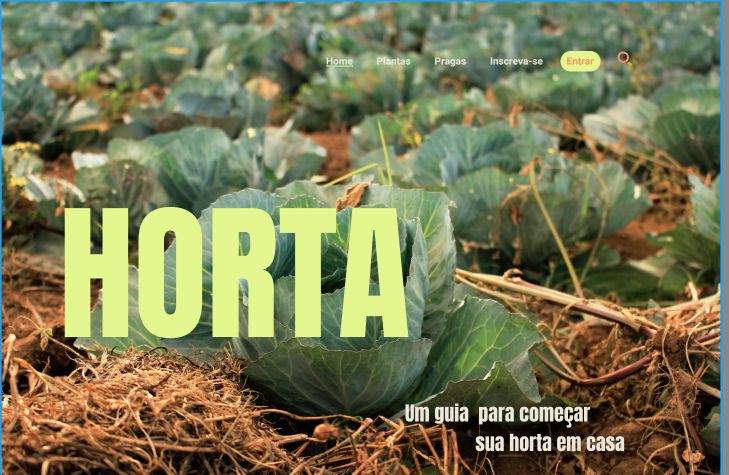
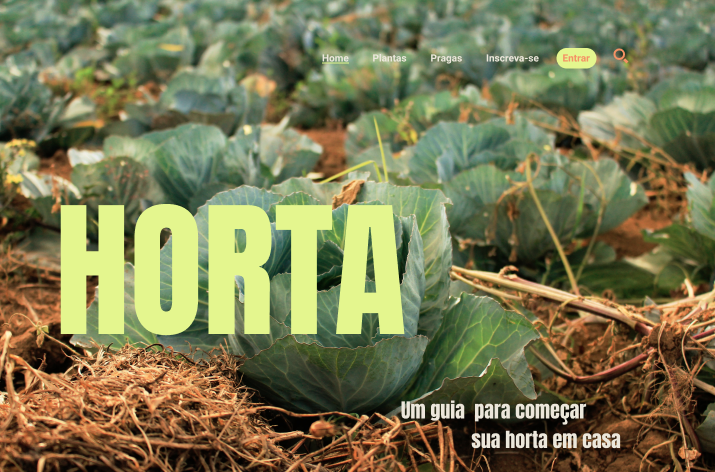
Updating info

diff --git a/README.md b/README.md
@@ -1,6 +1,6 @@
 # HORTA :strawberry: :leafy_green:
 
-!(IP-Horta-Home)
+!(https://github.com/louisealberti/Integrator_Project_-_Horta/blob/master/IP-Horta-Home.png)
 
 Integrator project comprises the knowledge acquired in the course Web Full Stack Java - Digital House
 
